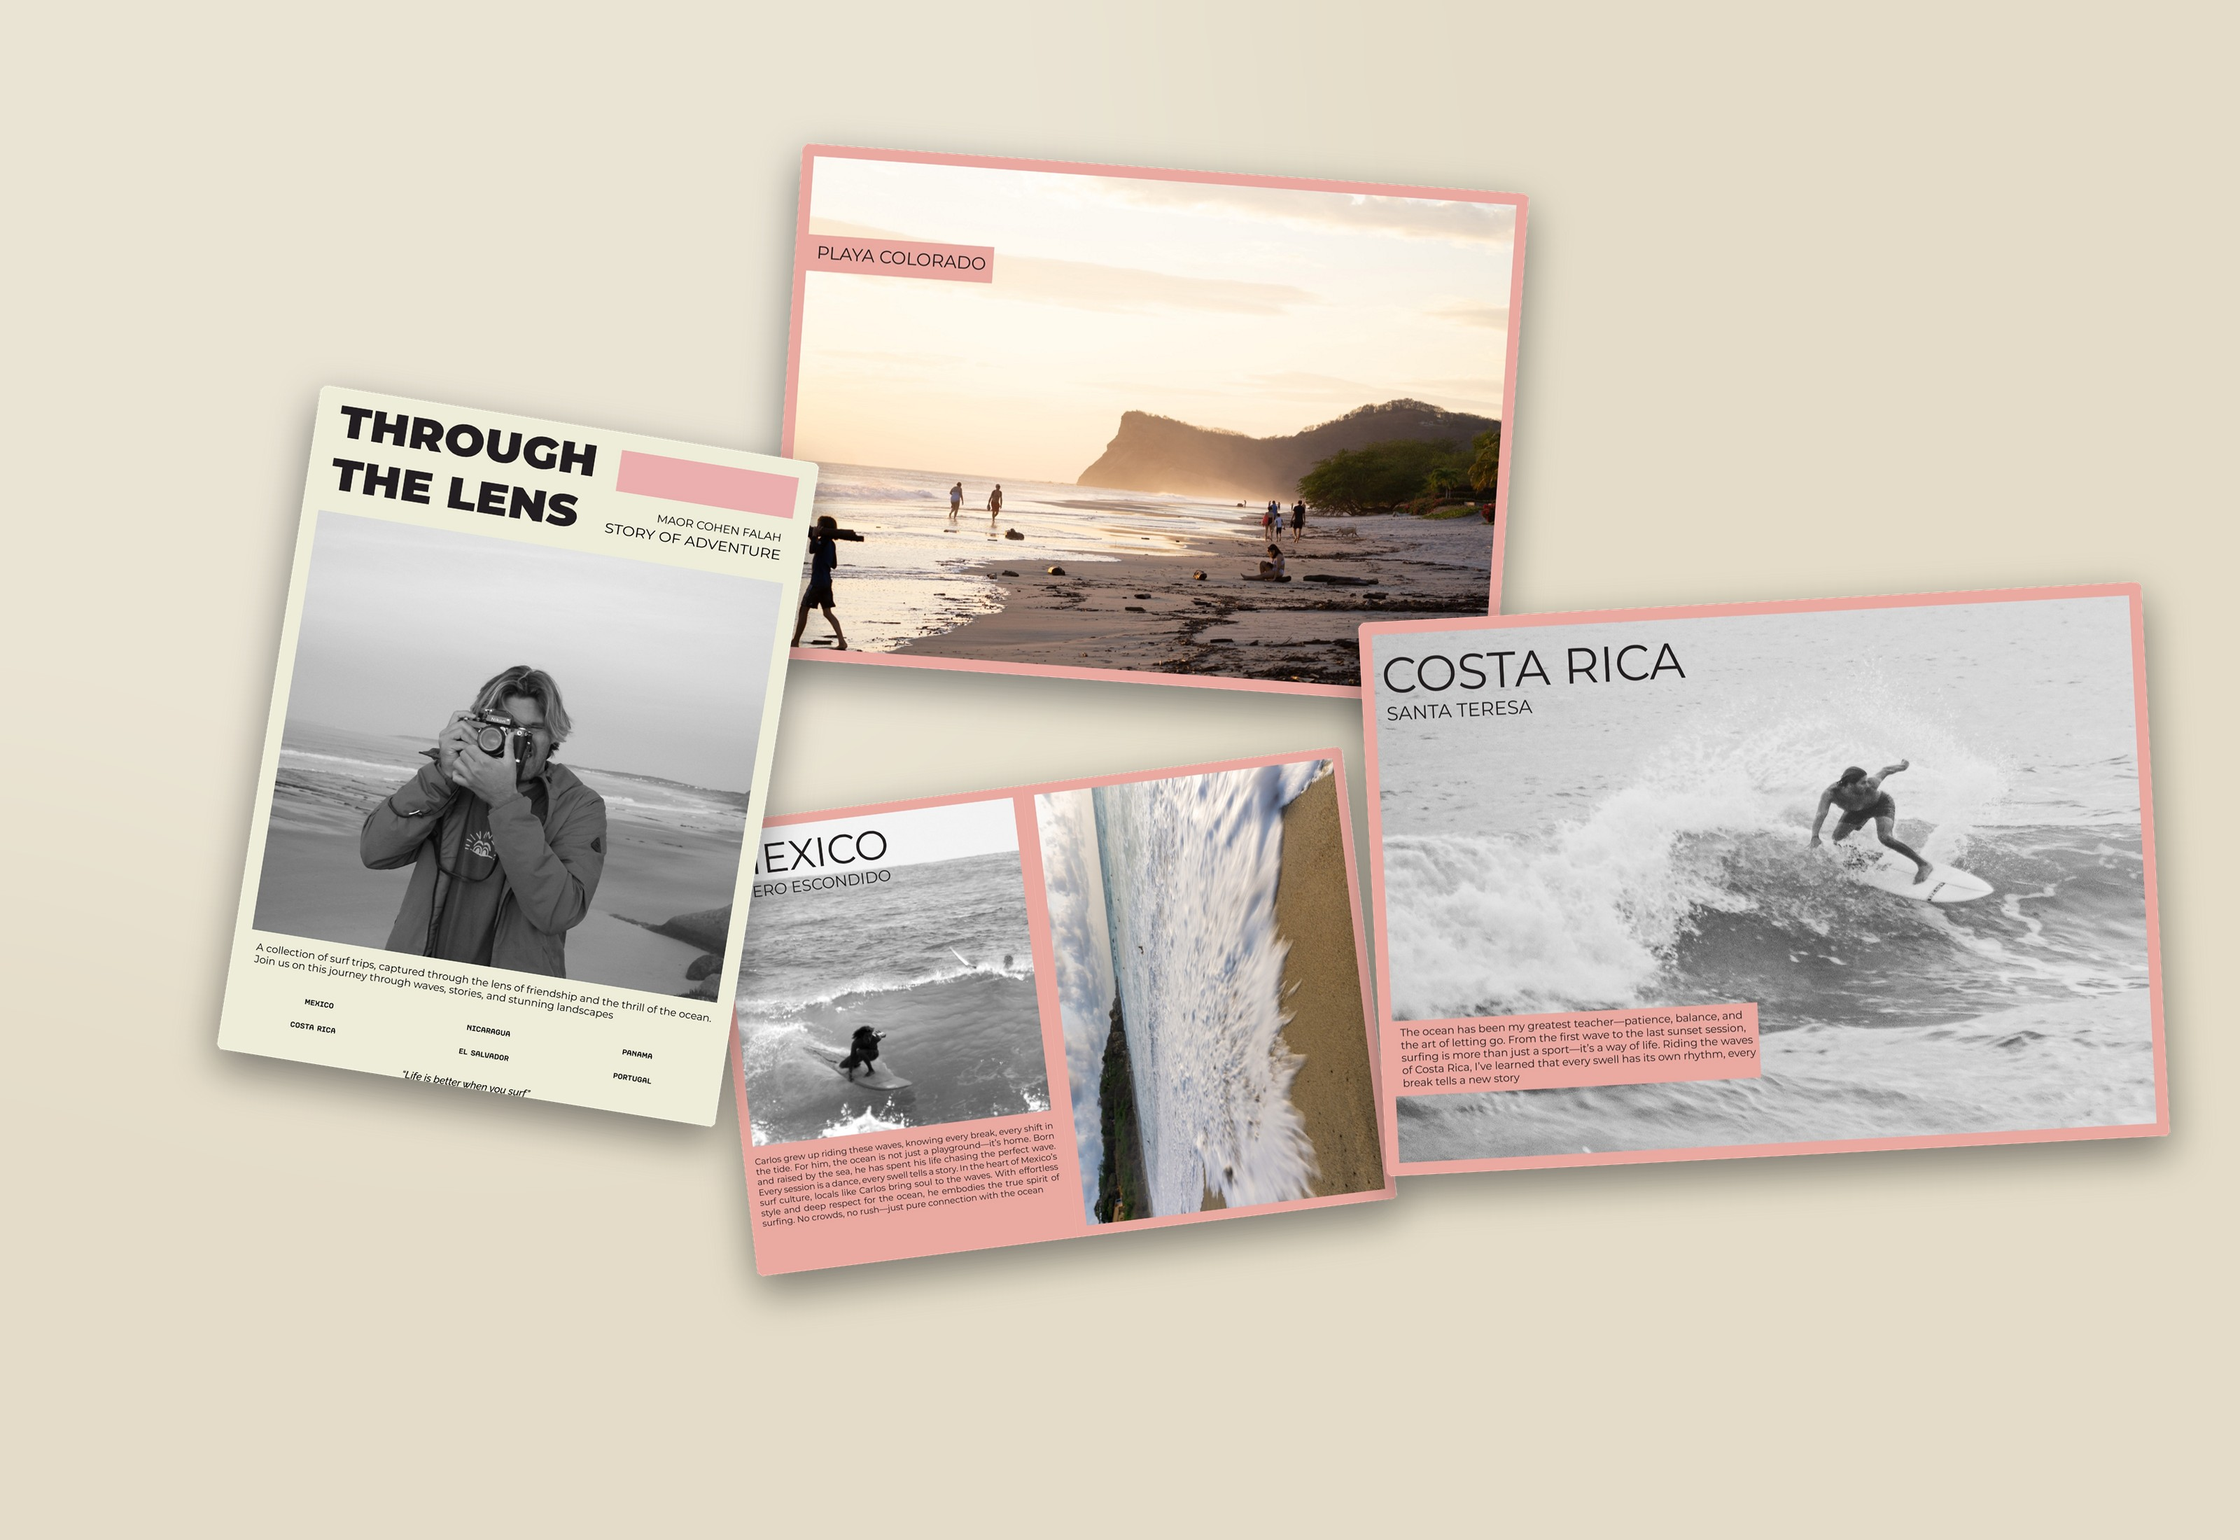
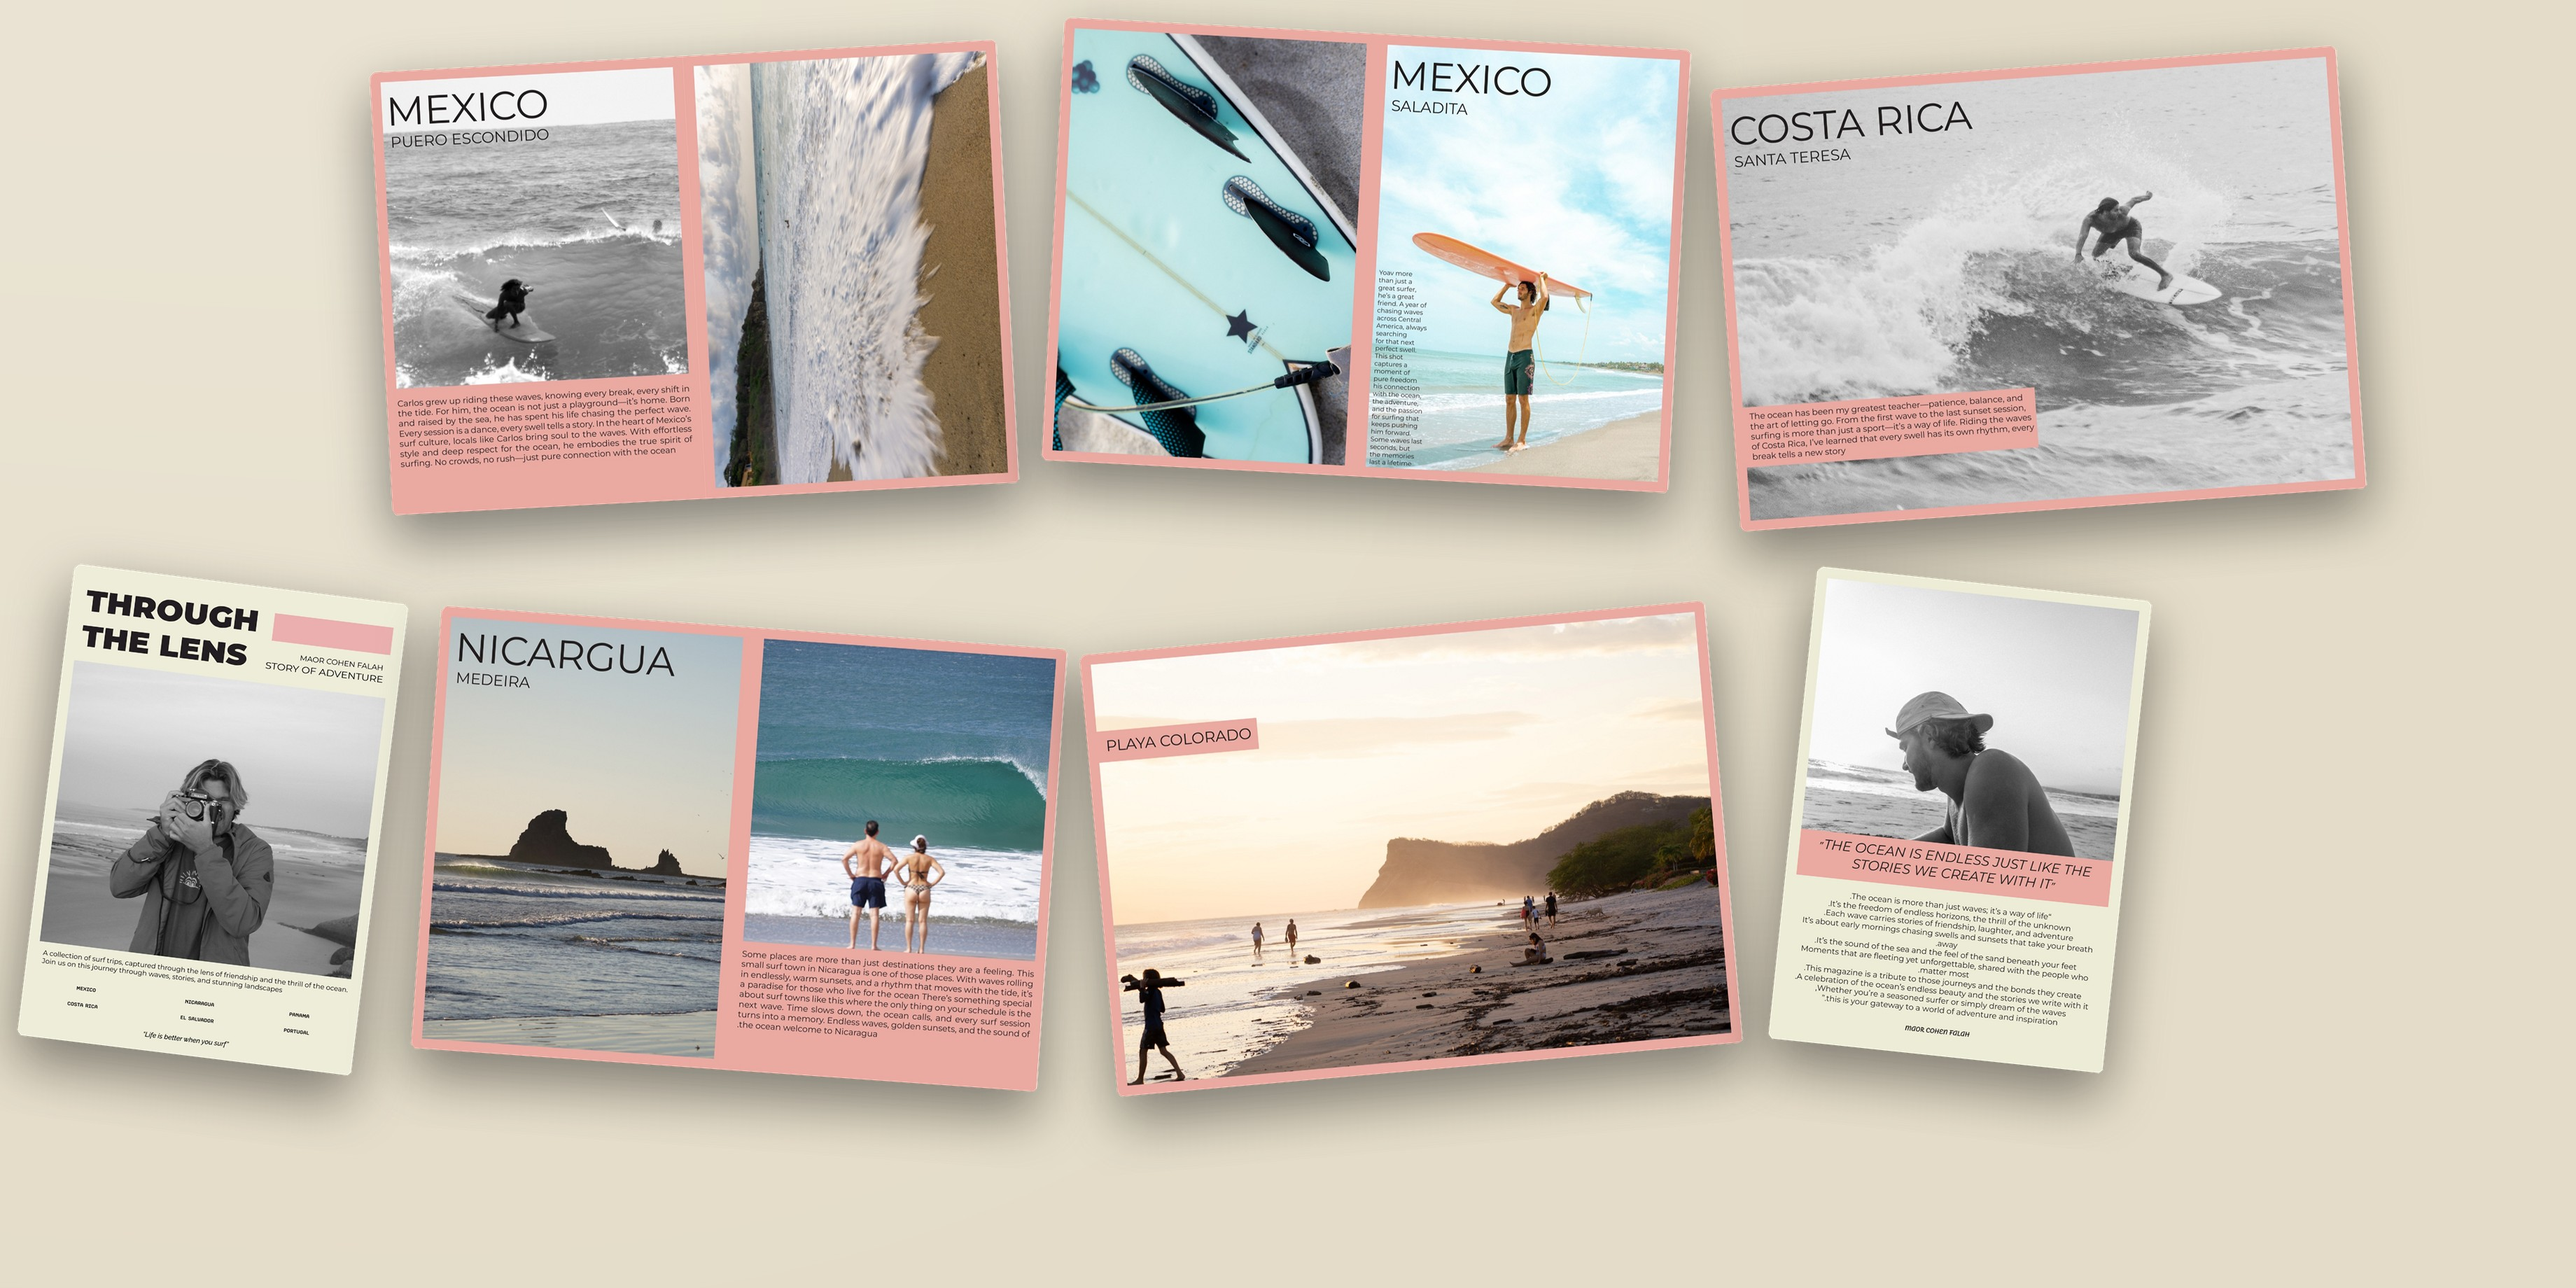
Include all 7 magazine pages in the flat-lay mockup

diff --git a/about.html b/about.html
@@ -9,7 +9,7 @@
 <link rel="preconnect" href="https://fonts.gstatic.com" crossorigin>
 <link href="https://fonts.googleapis.com/css2?family=Inter:wght@300;400;500;600&display=swap" rel="stylesheet">
 <link rel="icon" href="favicon.svg" type="image/svg+xml">
-<link rel="stylesheet" href="style.css?v=8">
+<link rel="stylesheet" href="style.css?v=9">
 </head>
 <body>
 
@@ -101,7 +101,7 @@
   <a href="resume.pdf" target="_blank" rel="noopener" class="cv-link" onclick="closeMobileNav()">Resume <svg class="cv-arrow" viewBox="0 0 24 24" width="13" height="13" fill="none" xmlns="http://www.w3.org/2000/svg"><path d="M7 17L17 7M9 7h8v8" stroke="currentColor" stroke-width="2.3" stroke-linecap="round" stroke-linejoin="round"/></svg></a>
 </nav>
 
-<script src="script.js?v=8"></script>
+<script src="script.js?v=9"></script>
 
 </body>
 </html>

diff --git a/index.html b/index.html
@@ -9,7 +9,7 @@
 <link rel="preconnect" href="https://fonts.gstatic.com" crossorigin>
 <link href="https://fonts.googleapis.com/css2?family=Inter:wght@300;400;500;600&display=swap" rel="stylesheet">
 <link rel="icon" href="favicon.svg" type="image/svg+xml">
-<link rel="stylesheet" href="style.css?v=8">
+<link rel="stylesheet" href="style.css?v=9">
 </head>
 <body>
 
@@ -172,7 +172,7 @@
   <a href="resume.pdf" target="_blank" rel="noopener" class="cv-link" onclick="closeMobileNav()">Resume <svg class="cv-arrow" viewBox="0 0 24 24" width="13" height="13" fill="none" xmlns="http://www.w3.org/2000/svg"><path d="M7 17L17 7M9 7h8v8" stroke="currentColor" stroke-width="2.3" stroke-linecap="round" stroke-linejoin="round"/></svg></a>
 </nav>
 
-<script src="script.js?v=8"></script>
+<script src="script.js?v=9"></script>
 
 </body>
 </html>

diff --git a/playground.html b/playground.html
@@ -9,7 +9,7 @@
 <link rel="preconnect" href="https://fonts.gstatic.com" crossorigin>
 <link href="https://fonts.googleapis.com/css2?family=Inter:wght@300;400;500;600&display=swap" rel="stylesheet">
 <link rel="icon" href="favicon.svg" type="image/svg+xml">
-<link rel="stylesheet" href="style.css?v=8">
+<link rel="stylesheet" href="style.css?v=9">
 </head>
 <body>
 
@@ -116,7 +116,7 @@
   <a href="resume.pdf" target="_blank" rel="noopener" class="cv-link" onclick="closeMobileNav()">Resume <svg class="cv-arrow" viewBox="0 0 24 24" width="13" height="13" fill="none" xmlns="http://www.w3.org/2000/svg"><path d="M7 17L17 7M9 7h8v8" stroke="currentColor" stroke-width="2.3" stroke-linecap="round" stroke-linejoin="round"/></svg></a>
 </nav>
 
-<script src="script.js?v=8"></script>
+<script src="script.js?v=9"></script>
 
 </body>
 </html>

diff --git a/work-austrip.html b/work-austrip.html
@@ -9,7 +9,7 @@
 <link rel="preconnect" href="https://fonts.gstatic.com" crossorigin>
 <link href="https://fonts.googleapis.com/css2?family=Inter:wght@300;400;500;600&display=swap" rel="stylesheet">
 <link rel="icon" href="favicon.svg" type="image/svg+xml">
-<link rel="stylesheet" href="style.css?v=8">
+<link rel="stylesheet" href="style.css?v=9">
 </head>
 <body>
 
@@ -200,7 +200,7 @@
   <a href="resume.pdf" target="_blank" rel="noopener" class="cv-link" onclick="closeMobileNav()">Resume <svg class="cv-arrow" viewBox="0 0 24 24" width="13" height="13" fill="none" xmlns="http://www.w3.org/2000/svg"><path d="M7 17L17 7M9 7h8v8" stroke="currentColor" stroke-width="2.3" stroke-linecap="round" stroke-linejoin="round"/></svg></a>
 </nav>
 
-<script src="script.js?v=8"></script>
+<script src="script.js?v=9"></script>
 
 </body>
 </html>

diff --git a/work-funnels.html b/work-funnels.html
@@ -9,7 +9,7 @@
 <link rel="preconnect" href="https://fonts.gstatic.com" crossorigin>
 <link href="https://fonts.googleapis.com/css2?family=Inter:wght@300;400;500;600&display=swap" rel="stylesheet">
 <link rel="icon" href="favicon.svg" type="image/svg+xml">
-<link rel="stylesheet" href="style.css?v=8">
+<link rel="stylesheet" href="style.css?v=9">
 </head>
 <body>
 
@@ -94,7 +94,7 @@
   <a href="resume.pdf" target="_blank" rel="noopener" class="cv-link" onclick="closeMobileNav()">Resume <svg class="cv-arrow" viewBox="0 0 24 24" width="13" height="13" fill="none" xmlns="http://www.w3.org/2000/svg"><path d="M7 17L17 7M9 7h8v8" stroke="currentColor" stroke-width="2.3" stroke-linecap="round" stroke-linejoin="round"/></svg></a>
 </nav>
 
-<script src="script.js?v=8"></script>
+<script src="script.js?v=9"></script>
 
 </body>
 </html>

diff --git a/work-redesign.html b/work-redesign.html
@@ -9,7 +9,7 @@
 <link rel="preconnect" href="https://fonts.gstatic.com" crossorigin>
 <link href="https://fonts.googleapis.com/css2?family=Inter:wght@300;400;500;600&display=swap" rel="stylesheet">
 <link rel="icon" href="favicon.svg" type="image/svg+xml">
-<link rel="stylesheet" href="style.css?v=8">
+<link rel="stylesheet" href="style.css?v=9">
 </head>
 <body>
 
@@ -94,7 +94,7 @@
   <a href="resume.pdf" target="_blank" rel="noopener" class="cv-link" onclick="closeMobileNav()">Resume <svg class="cv-arrow" viewBox="0 0 24 24" width="13" height="13" fill="none" xmlns="http://www.w3.org/2000/svg"><path d="M7 17L17 7M9 7h8v8" stroke="currentColor" stroke-width="2.3" stroke-linecap="round" stroke-linejoin="round"/></svg></a>
 </nav>
 
-<script src="script.js?v=8"></script>
+<script src="script.js?v=9"></script>
 
 </body>
 </html>
